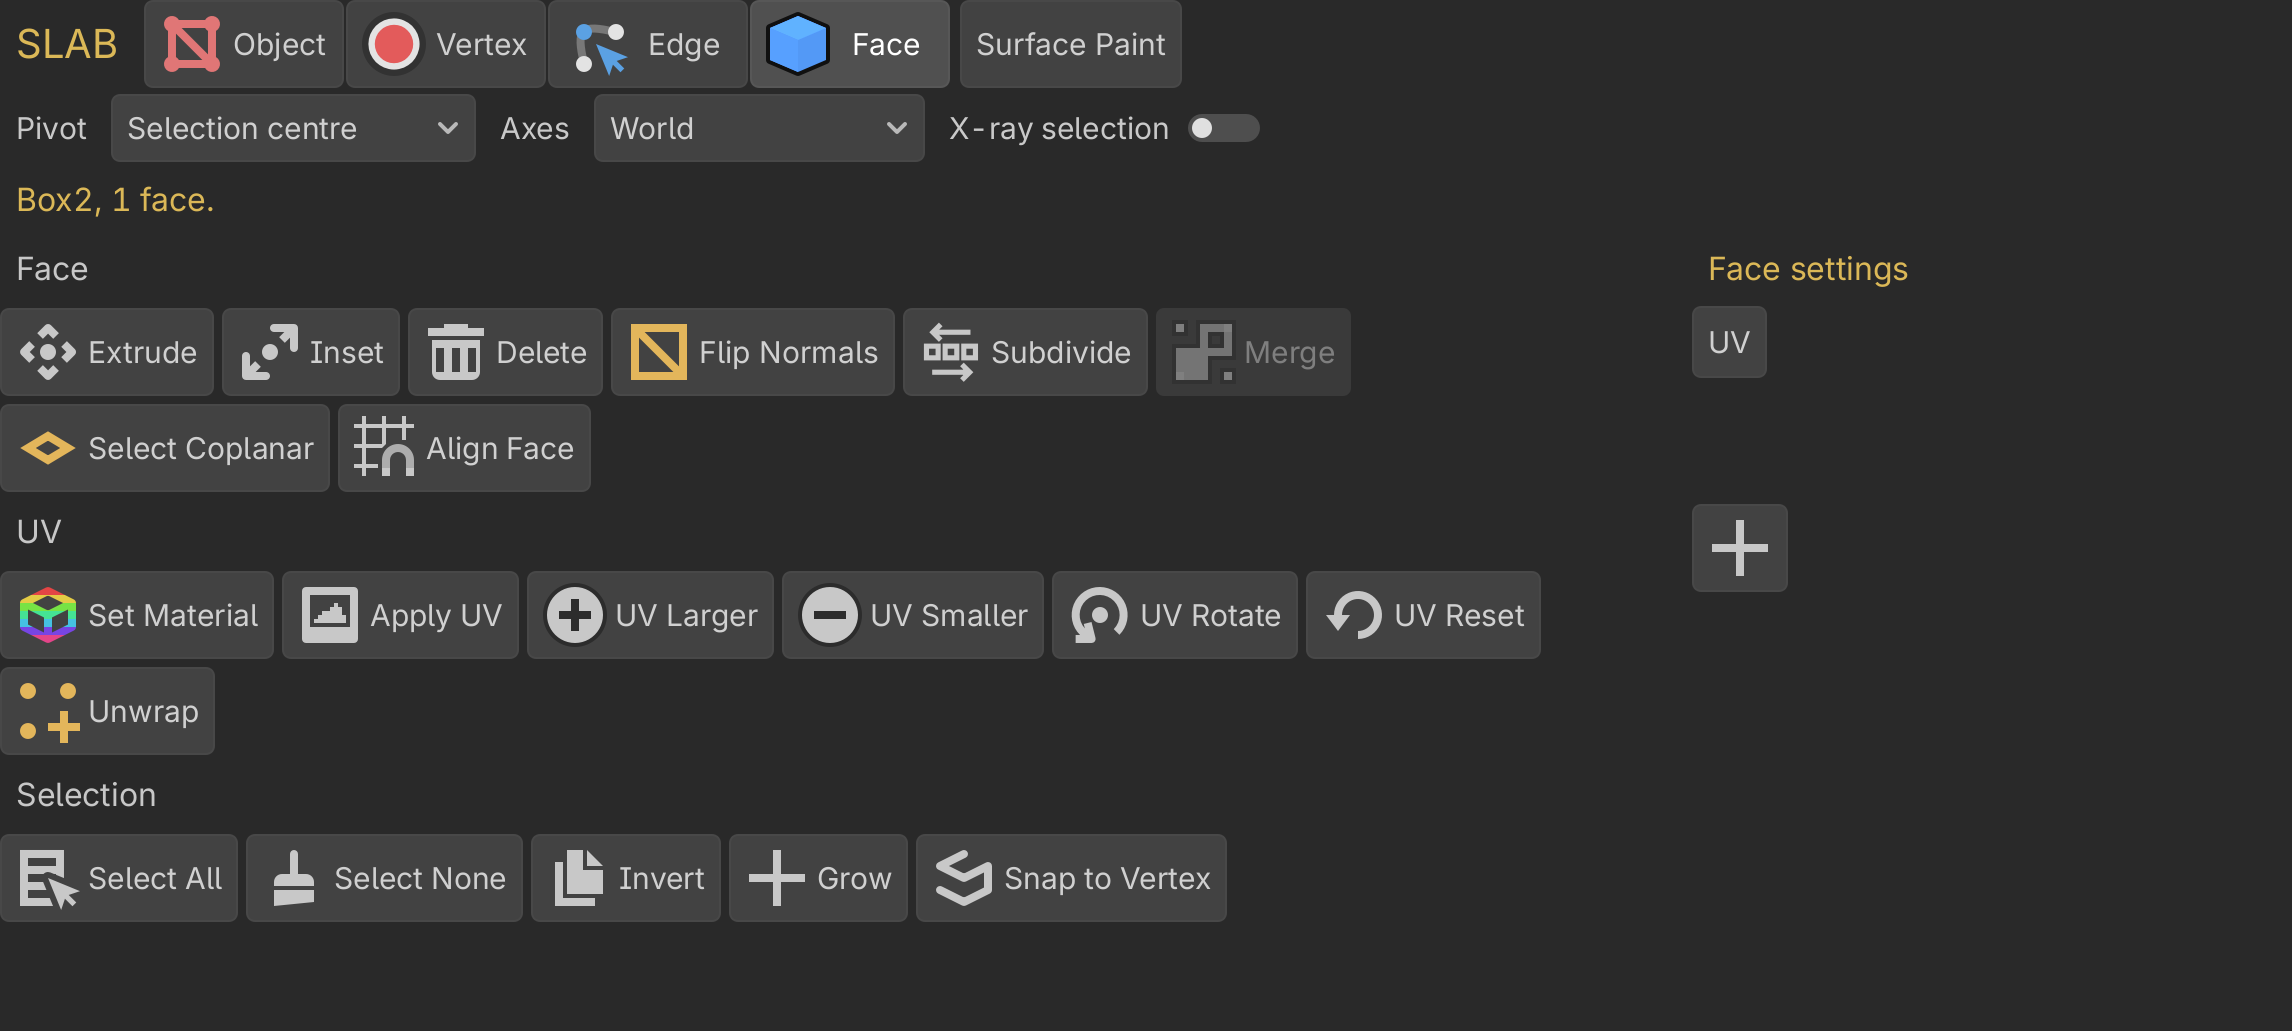
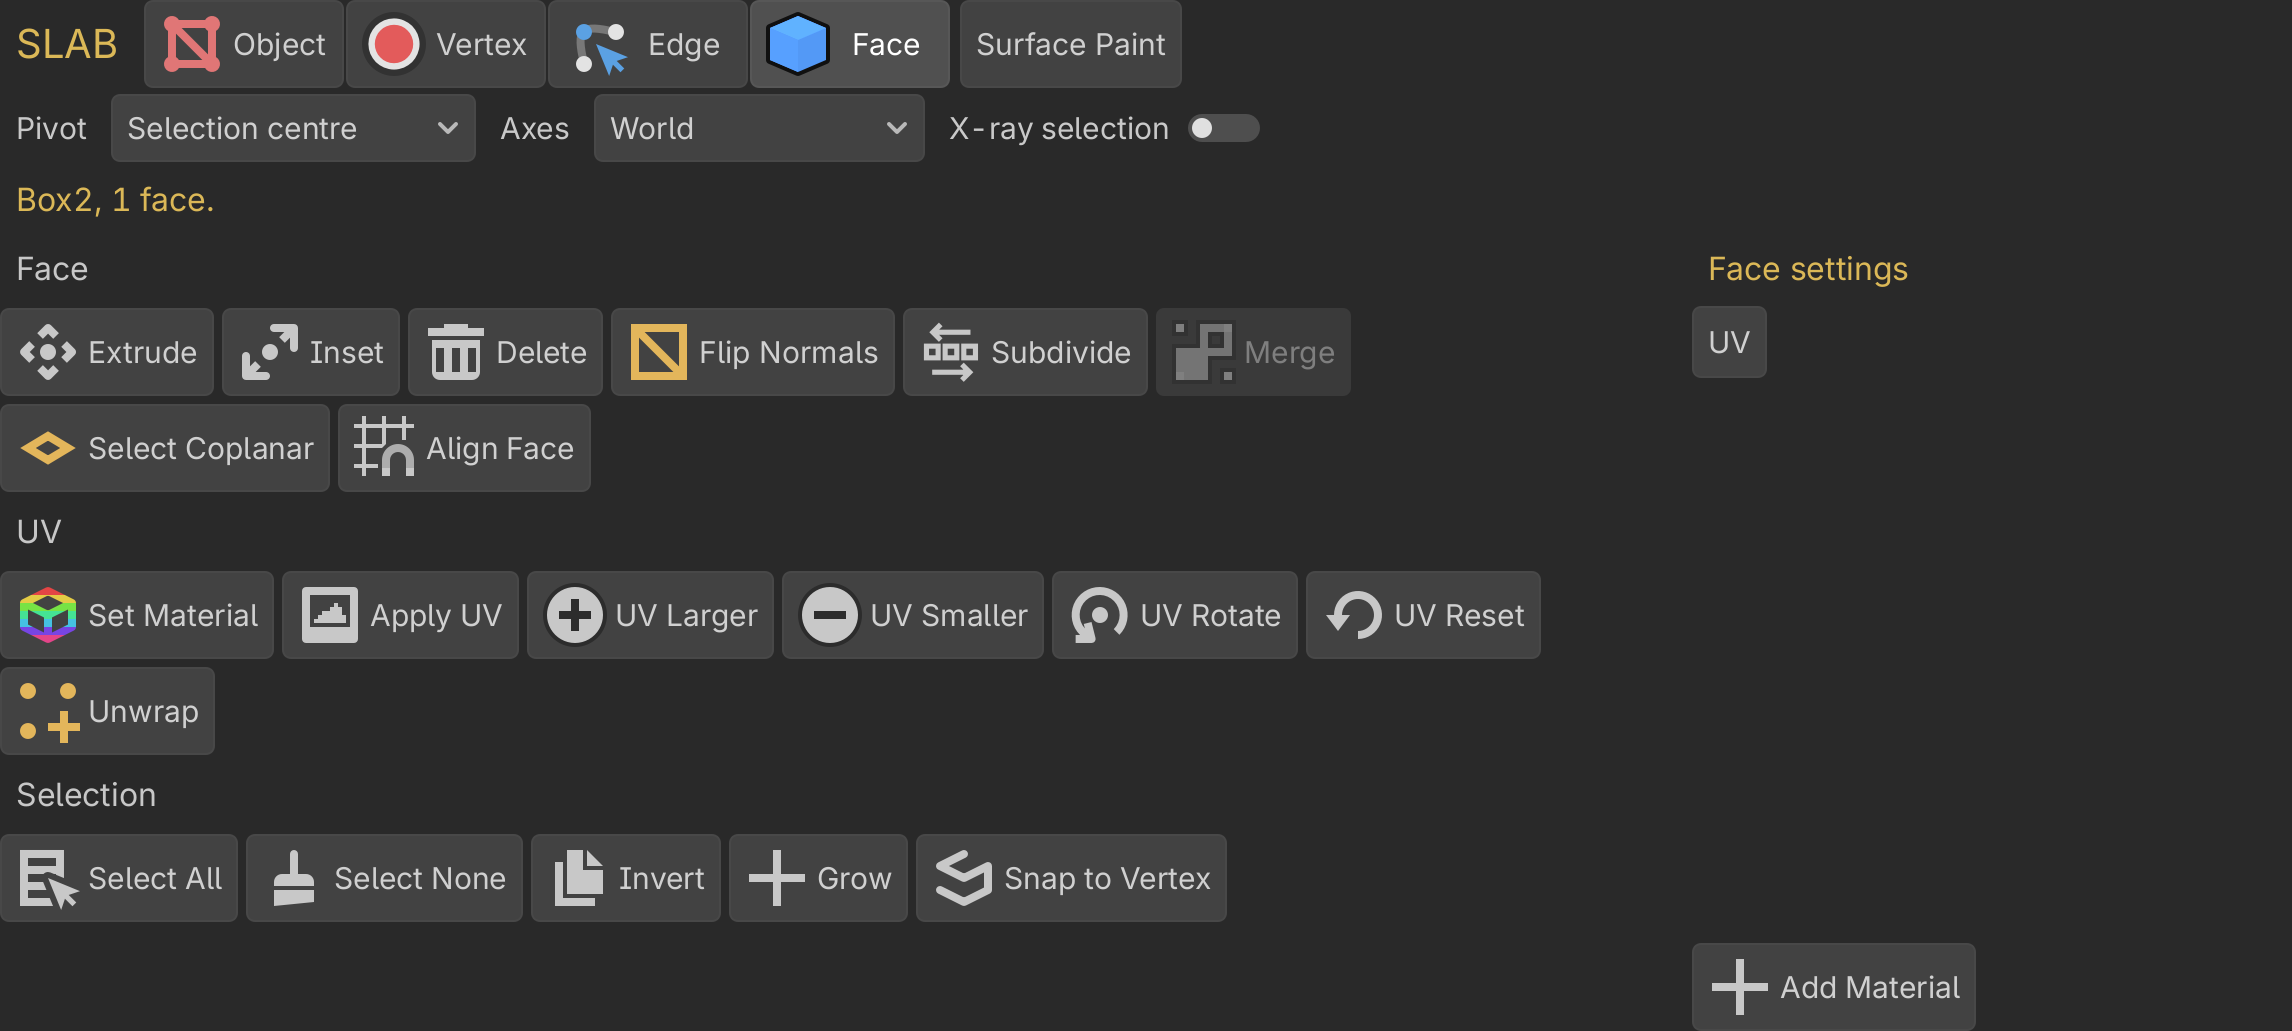
Make shape creation explicit and keep tool transitions coherent.

Changed region(s): [[0.7125, 0.9001, 0.8674, 1.0], [0.7125, 0.4656, 0.8054, 0.5897]]

diff --git a/website/app/globals.css b/website/app/globals.css
@@ -61,7 +61,7 @@ a:focus-visible, button:focus-visible, video:focus-visible { outline: 2px solid 
 .skip-link { position: fixed; top: -5rem; left: 1rem; z-index: 50; padding: .75rem 1rem; background: var(--color-slab-gold); color: #141516; }
 .skip-link:focus { top: 1rem; }
 .eyebrow { display: block; font-size: .7rem; line-height: 1.5; font-weight: 650; letter-spacing: .13em; text-transform: uppercase; color: var(--color-slab-muted); }
-.guide-shell { grid-template-columns: 15rem minmax(0, 52rem) minmax(10rem, 1fr); max-width: 100rem; margin: 0 auto; }
+.guide-shell { grid-template-columns: 15rem minmax(0, 52rem) minmax(12rem, 1fr); max-width: 100rem; margin: 0 auto; }
 .guide-nav { position: sticky; top: 0; height: 100dvh; overflow-y: auto; padding: 2rem 1.15rem; background: #18191b; }
 .guide-nav .site-mark { display: inline-flex; padding: 0 .6rem; margin-bottom: 1.6rem; }
 .guide-nav h2 { margin: 1.5rem .65rem .5rem; font-size: .65rem; }
@@ -99,7 +99,7 @@ a:focus-visible, button:focus-visible, video:focus-visible { outline: 2px solid 
 .shot { margin: 2rem 0; }
 .shot img, .shot video { display: block; width: 100%; height: auto; border: 1px solid #42454b; border-radius: 4px; background: #2e2f34; }
 .shot figcaption { font-size: .8rem; line-height: 1.6; padding-left: .9rem; border-left: 2px solid #655735; margin-top: .8rem; }
-.doc-outline { position: sticky; top: 0; align-self: start; max-height: 100dvh; overflow-y: auto; padding: 4rem 1.5rem 2rem 0; }
+.doc-outline { position: sticky; top: 0; align-self: start; min-width: 0; max-height: 100dvh; overflow-y: auto; padding: 4rem 1.5rem 2rem; }
 .doc-outline ol { list-style: none; margin: 1rem 0; padding: 0; border-left: 1px solid var(--color-slab-line); }
 .doc-outline a { display: block; padding: .4rem 0 .4rem 1rem; font-size: .78rem; color: var(--color-slab-muted); line-height: 1.5; }
 .doc-outline a:hover { color: var(--color-slab-gold); }

diff --git a/docs/ux-acceptance.md b/docs/ux-acceptance.md
@@ -14,6 +14,10 @@ The goal is ProBuilder or UModeler quality in the editor workflow and manual. A 
 - Surface Paint has explicit Assign and Add Material controls, a selection count, and brush controls only in Pixel mode. UV Escape cancellation, release, Undo, and Redo pass in a rendered editor using real GUI events.
 - Pixel strokes bind the clicked face material and stay on that resource while dragging; crossing a different material breaks interpolation. The verifier includes the dedicated hit-scope regression suite.
 
+- Creation now uses an explicit shape choice, parameters, and Create action. Hover leaves the fields unchanged. The rendered editor verifies a typed height of 5.25 m, repeated identical cylinders, one Undo per creation, and the full room tutorial through the new flow. Settings expand into available dock height; the chosen shape is highlighted.
+- Mode buttons leave active tools even when choosing the current mode. Surface Paint accepts 1–4 to return to modelling, and Godot framing with F passes through real viewport keyboard input.
+- The guide contents column has been checked in Chrome at 1151, 1440, and 800 px. The narrow desktop outline wraps without clipping; the smaller layout uses collapsible contents.
+
 ## Remaining acceptance work
 
 | Area | Evidence still required |
@@ -24,7 +28,7 @@ The goal is ProBuilder or UModeler quality in the editor workflow and manual. A 
 | Topology tools | Document and test selection constraints, resulting selection, undo units, and refusals for Connect, Bridge, Dissolve, Delete, Flip Normals, Merge, and Subdivide. |
 | Materials and UVs | Author a scene with several materials, seams, unwrap, precise UV placement, pixel strokes, texture persistence, and reversible edits. Resolve overlapping legacy UV controls and the Surface Paint workspace. |
 | Complex modelling | Build and play a substantial level in the editor with enclosed rooms, curved geometry, thin details, booleans, loops, bevels, platforms, and interaction. Diagnose z-fighting rather than hiding it. |
-| Documentation | Replace outdated captures, cross-check every command contract, validate links, and inspect desktop and narrow-screen layouts. The right-hand contents column needs a responsive-layout check. |
+| Documentation | Replace outdated captures, cross-check every command contract, validate links, and inspect desktop and narrow-screen layouts. Verify small phone widths and every long reference page; the right-hand contents column is checked at 1151 and 1440 px. |
 | Release readiness | Reopen saved examples, verify editable source and generated output, run all gates, and record limitations honestly. No claim of parity until the full workflow is verified. |
 
 ## Repeatable evidence
